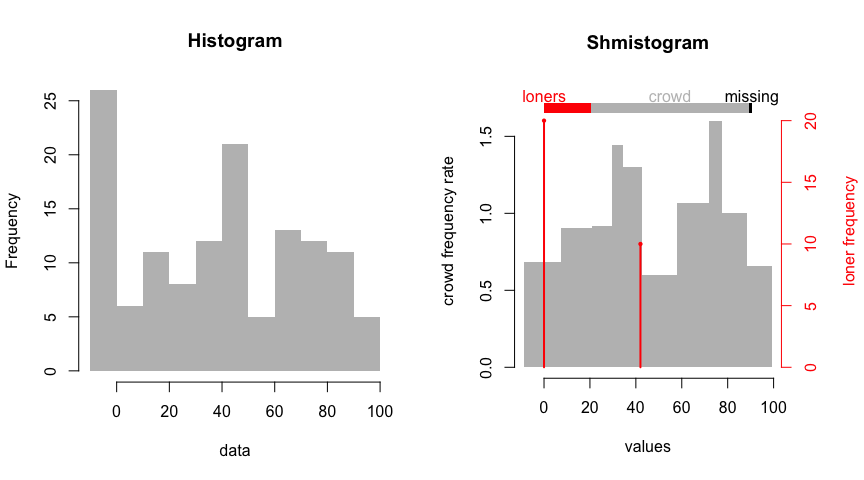
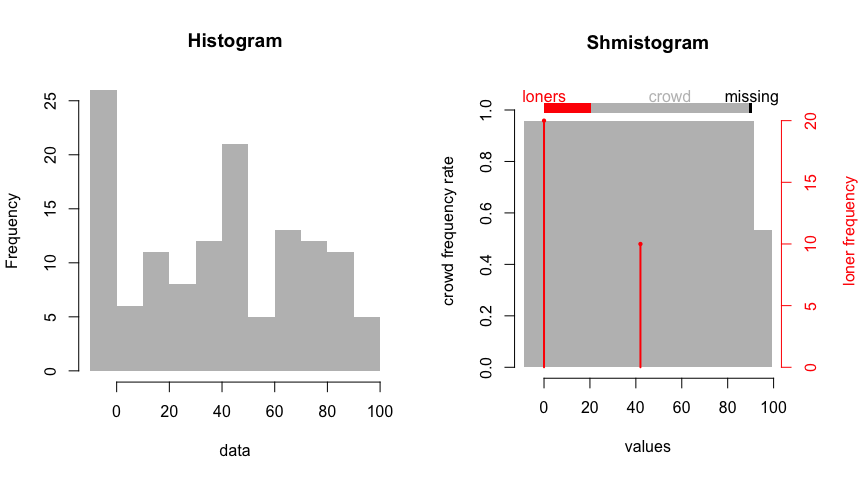
implement a density estimation tree from scrach and make it the default on the backend. Plots look better?

diff --git a/shmistogram/det/__init__.py b/shmistogram/det/__init__.py
@@ -1,0 +1,179 @@
+import numpy as np
+import pandas as pd
+import pdb
+
+def isclose(a, b, rel_tol=1e-12, abs_tol=0.0):
+    return abs(a-b) <= max(rel_tol * max(abs(a), abs(b)), abs_tol)
+
+def search_split(df, lb=None, ub=None, min_data_in_leaf=None):
+    '''
+    Search for an optimal split (index and threshold value)
+
+    :param df: (pd.DataFrame) the index should be the unique values and the the `n_obs` column
+    is the count observations at each value
+    :param lb: (float) a left interval bound, which may be slightly less than the minimum df.index.value
+    :param ub: (float) a left interval bound, which may be slightly less than the minimum df.index.value
+    :return: {'idx': idx, 'threshold': t, 'divergence_improvement': ??}
+    '''
+    n = df.shape[0]
+    n_ob = df.n_obs.sum()
+    xmin = df.value.iloc[0]
+    xmax = df.value.iloc[-1]
+    xrg = xmax - xmin
+    lb = xmin if (lb is None) else lb
+    ub = xmax if (ub is None) else ub
+    if xmin - lb < 1e-13:
+        lmar = (df.n_obs.iloc[0] / n) * xrg
+        lb = xmin - lmar
+    else:
+        lmar = xmin - lb
+        assert lmar > 0
+    if ub - xmax < 1e-13:
+        umar = (df.n_obs.iloc[-1] / n) * xrg
+        ub = xmax + umar
+    else:
+        umar = ub - xmax
+        assert umar > 0
+    margin = lmar + umar
+    mxrg = xrg + margin
+    assert isclose(mxrg, ub-lb)
+    null_dens = 1/mxrg
+    # Counts to the left and right of each potential split
+    df['left_n'] = df.n_obs.cumsum()
+    df['right_n'] = df.left_n.iloc[-1] - df.left_n.values
+    if min_data_in_leaf is not None:
+        m = min_data_in_leaf
+        assert isinstance(m, int)
+        assert m >= 1
+        df = df[df.left_n >= m]
+        df = df[df.right_n >= m]
+        if df.shape[0] == 0:
+            return {
+                'deviance_improvement': -1,
+                'idx': None, 'value': None, 'n': n_ob
+            }
+    # Width of bin to the left, right
+    df['left_w'] = df.value - lb
+    df['right_w'] = ub - df.value
+    # Density of bin to the left, right
+    df['left_ldens'] = np.log( df.left_n.values / (n * df.left_w.values) )
+    df['right_ldens'] = np.log( df.right_n.values / (n * df.right_w.values) )
+    # Joint negative log likelihood to the left, right
+    df['left_neg_ll'] = -df.left_n.values * df.left_ldens.values
+    df['right_neg_ll'] = -df.right_n.values * df.right_ldens.values
+    # Total negative log-likelihood; if the total is much less than the global
+    #   (null) for a particular split, then the split is worthwhile
+    df['neg_ll'] = df.left_neg_ll + df.right_neg_ll
+    # null negative log likelihood
+    nnll = -n*np.log(null_dens)
+    assert nnll >= df.neg_ll.max() - 1e-12
+    idx = df.neg_ll.iloc[:(df.shape[0]-1)].idxmin()
+    value = (df.value.loc[idx] + df.value.loc[idx + 1])/2
+    bestll = df.neg_ll.loc[idx]
+    di = nnll - bestll
+    assert di > - np.inf
+    assert di < np.inf
+    return {'deviance_improvement': di, 'idx': idx, 'value': value, 'n': n_ob}
+
+class Node(object):
+    def __init__(self, lb, ub):
+        '''
+        :param lb: (dict) of form {'idx': <int>, 'value': <float>}
+        :param ub: (dict) of form {'idx': <int>, 'value': <float>}
+        #:param neighbors: (dict) of form {'left': <Node>, 'right', <Node>
+        '''
+        self.lb = lb
+        self.ub = ub
+        # Children
+        self.left = None
+        self.right = None
+
+    def split(self, threshold):
+        '''
+        :param threshold: (dict) of form {'idx': <int>, 'value': <float>}
+        '''
+        self.left = Node(lb = self.lb, ub = threshold)
+        self.right = Node(lb = threshold, ub = self.ub)
+
+def default_params():
+    return {
+        'min_data_in_leaf': 3
+    }
+
+class BinaryDensityEstimationTree(object):
+    def __init__(self, params=None):
+        self.params = default_params()
+        if params is not None:
+            self.params.update(params)
+
+    def _accept_data(self, df):
+        self.df = df.copy()
+        self.df['value'] = self.df.index.values
+        self.df.index = range(df.shape[0])
+        self.N = self.df.n_obs.sum()
+
+    def _plant_the_tree(self):
+        self.root = Node(
+            lb={'idx': 0, 'value': self.df.value.iloc[0]},
+            ub={'idx': self.df.shape[0], 'value': self.df.value.iloc[-1]}
+        )
+        self.last_node_idx = 0
+        self.nodes = {self.last_node_idx: self.root}
+        mdil=self.params['min_data_in_leaf']
+        splt = search_split(self.df, min_data_in_leaf=mdil)
+        self.leaves = pd.DataFrame(splt, index=[0])
+
+    def _continue_splitting(self):
+        self.leaves.sort_values('deviance_improvement', inplace=True)
+        best = self.leaves.iloc[-1]
+        self.threshold = best[['idx', 'value']].to_dict()
+        self.threshold['idx'] = int(self.threshold['idx']) + 1 #TODO -- unclear how this becomes a float
+        self.best_node = self.leaves.index.values[-1]
+        return best.deviance_improvement > (self.last_node_idx/2) + 1
+
+    def _search_split(self, node):
+        mdil = self.params['min_data_in_leaf']
+        df = self.df.iloc[node.lb['idx']:node.ub['idx']].copy()
+        if df.shape[0] > 1:
+            return search_split(df, lb=node.lb['value'], ub=node.ub['value'], min_data_in_leaf=mdil)
+        else:
+            return {'deviance_improvement': -1, 'idx': None, 'value': None, 'n': df.n_obs.values[0]}
+
+    def _grow_the_tree(self):
+        while self._continue_splitting():
+            node = self.nodes[self.best_node]
+            node.split(self.threshold)
+            nl = node.left
+            nr = node.right
+            i = self.last_node_idx
+            self.nodes[i + 1] = nl
+            self.nodes[i + 2] = nr
+            # precompute the new leaves best split points
+            snl = self._search_split(nl)
+            snr = self._search_split(nr)
+            assert snl['idx'] not in self.leaves.idx.values
+            assert snr['idx'] not in self.leaves.idx.values
+            self.leaves.drop([self.best_node], inplace=True)
+            # drop the chosen leaf and replace it with its children
+            self.leaves.loc[i + 1] = snl
+            self.leaves.loc[i + 2] = snr
+            assert self.leaves.n.sum() == self.N
+            self.last_node_idx += 2
+
+    def fit(self, df):
+        self._accept_data(df)
+        self._plant_the_tree()
+        self._grow_the_tree()
+
+    def bins(self):
+        ''' Identify all leaf bins in ascending order '''
+        lnodes = self.leaves.index.values
+        df = pd.DataFrame({
+            'lb': [self.nodes[k].lb['value'] for k in lnodes],
+            'ub': [self.nodes[k].ub['value'] for k in lnodes]
+        })
+        df['freq'] = self.leaves.n.values
+        assert (df.ub - df.lb).min() > 0
+        df['width'] = df.ub - df.lb
+        df['rate'] = df.freq / df.width
+        return df.sort_values('lb').reset_index(drop=True)

diff --git a/shmistogram/__init__.py b/shmistogram/__init__.py
@@ -4,6 +4,7 @@ import pandas as pd
 import pdb
 
 from . import agglomerate as agg
+from . import det
 
 class SeriesTable(object):
     def __init__(self, series, compute_empirical_p=False):
@@ -42,9 +43,8 @@ class SeriesTable(object):
             return {'missing': 0, 'df': self.df}
 
 class Shmistogram(object):
-    def __init__(self, x, loner_min_count=10, max_bins=None, prebin_maxbins=100):
+    def __init__(self, x, method='density_tree', loner_min_count=10, max_bins=None, prebin_maxbins=100):
         '''
-
         :param x: series-like object (pandas.Series, numpy 1-d array, flat list)
         :param max_bins: hard upper bound on the number of bins in the continuous component
         of the shmistogram
@@ -63,7 +63,10 @@ class Shmistogram(object):
         series_table = SeriesTable(x)
         self._tabulate_loners_and_the_crowd(series_table)
         self.n_loners = self.loners.n
-        self._agglomerate_crowd()
+        if method=='agglomerate':
+            self._agglomerate_crowd()
+        elif method=='density_tree':
+            self._density_tree()
 
     def _tabulate_loners_and_the_crowd(self, st):
         '''
@@ -134,6 +137,11 @@ class Shmistogram(object):
             fms = agg.forward_merge_score(bins)
             bins = agg.collapse_one(bins, np.argmax(fms))
         self.bins = bins
+
+    def _density_tree(self):
+        self.det = det.BinaryDensityEstimationTree()
+        self.det.fit(self.crowd.df)
+        self.bins = self.det.bins()
 
     def plot(self):
         # TODO

diff --git a/shmistogram/kde.py b/shmistogram/kde.py
@@ -1,0 +1,6 @@
+# from sklearn.grid_search import GridSearchCV
+# grid = GridSearchCV(KernelDensity(),
+#                     {'bandwidth': np.linspace(0.05, 1.0, 10)},
+#                     cv=10)
+# grid.fit(x)
+# print grid.best_params_
